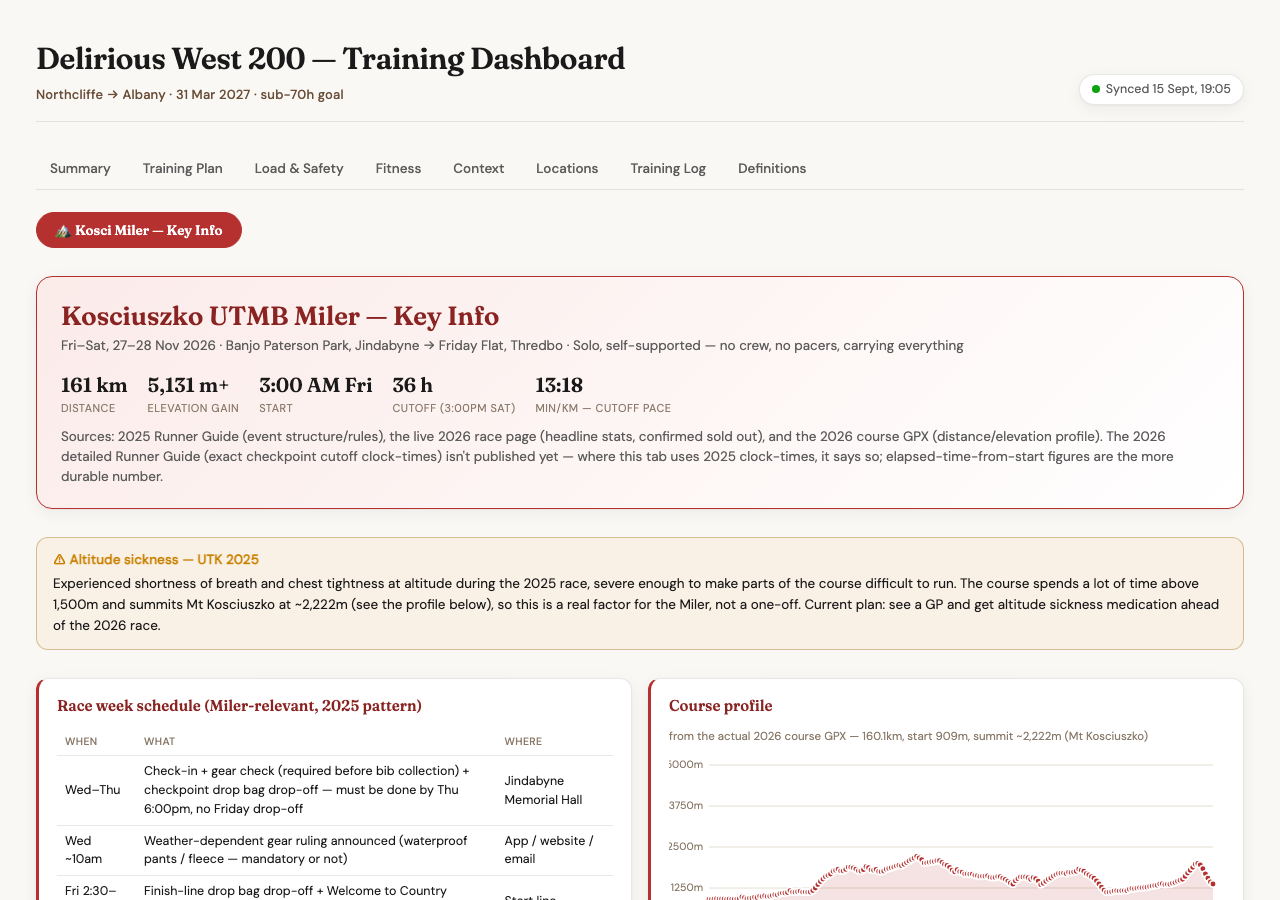
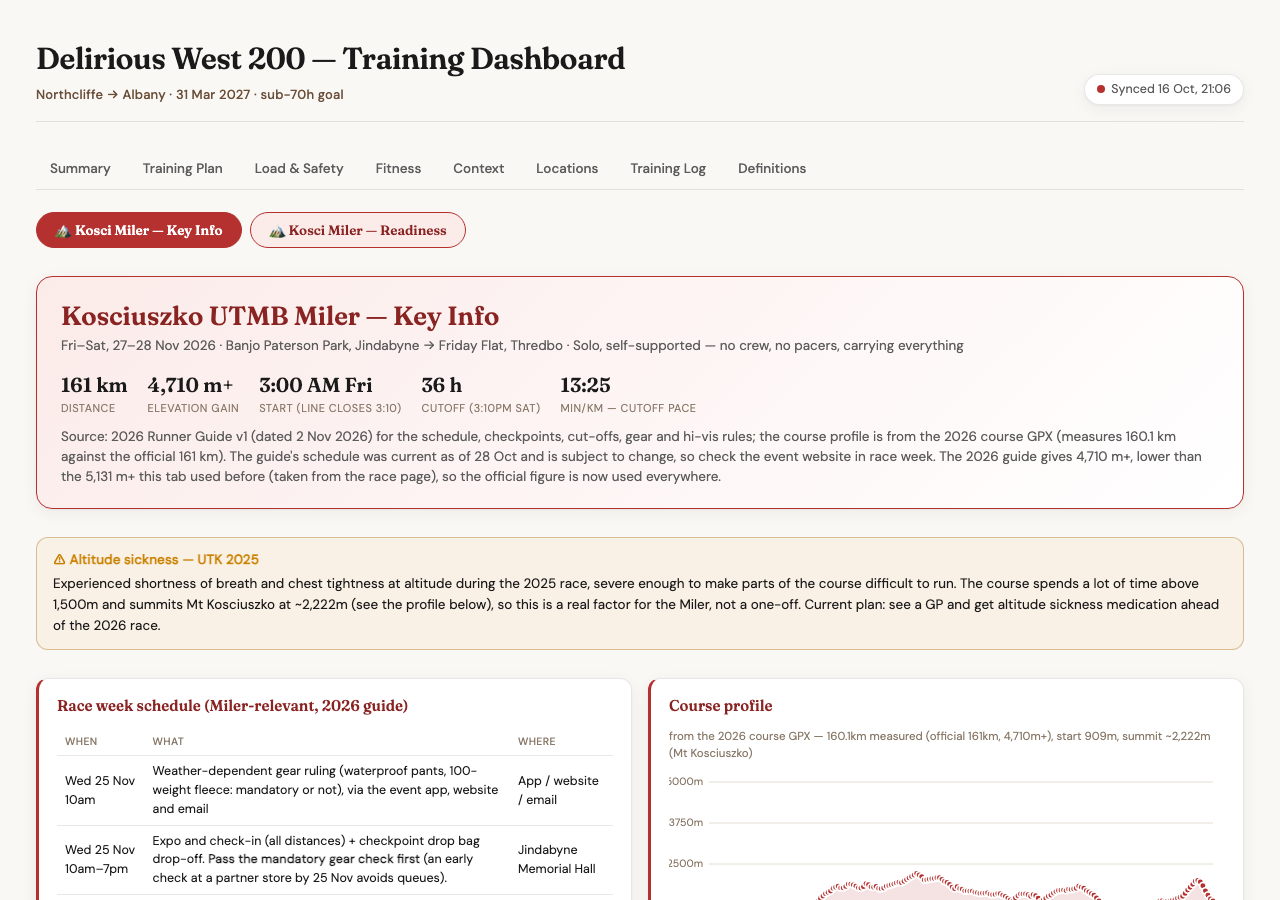
Update Kosci Key Info tab to the 2026 Runner Guide
Elevation 4,710 m+, 3:10pm Sat cutoff, 2026 schedule and checkpoint table,
supplies matrix, new mandatory gear and hi-vis rules. Config elevation and
open items updated; screenshot refreshed.

diff --git a/src/templates/dashboard.html b/src/templates/dashboard.html
@@ -779,7 +779,7 @@ footer { text-align: center; font-size: 11.5px; color: var(--ink-muted); padding
         <div class="def-card">
           <div class="term">Elevation gain</div>
           <div class="meaning">Total meters climbed (ascent only, not descent) over a run or week.</div>
-          <div class="context">Shown as "m+" in race facts, e.g. "5,131 m+".</div>
+          <div class="context">Shown as "m+" in race facts, e.g. "4,710 m+".</div>
         </div>
         <div class="def-card">
           <div class="term">Wear threshold (shoes)</div>
@@ -822,12 +822,12 @@ footer { text-align: center; font-size: 11.5px; color: var(--ink-muted); padding
       </div>
       <div class="race-stats">
         <div class="race-stat"><div class="v">161 km</div><div class="l">Distance</div></div>
-        <div class="race-stat"><div class="v">5,131 m+</div><div class="l">Elevation gain</div></div>
-        <div class="race-stat"><div class="v">3:00 AM Fri</div><div class="l">Start</div></div>
-        <div class="race-stat"><div class="v">36 h</div><div class="l">Cutoff (3:00pm Sat)</div></div>
-        <div class="race-stat"><div class="v">13:18</div><div class="l">min/km — cutoff pace</div></div>
+        <div class="race-stat"><div class="v">4,710 m+</div><div class="l">Elevation gain</div></div>
+        <div class="race-stat"><div class="v">3:00 AM Fri</div><div class="l">Start (line closes 3:10)</div></div>
+        <div class="race-stat"><div class="v">36 h</div><div class="l">Cutoff (3:10pm Sat)</div></div>
+        <div class="race-stat"><div class="v">13:25</div><div class="l">min/km — cutoff pace</div></div>
       </div>
-      <div class="race-sub">Sources: 2025 Runner Guide (event structure/rules), the live 2026 race page (headline stats, confirmed sold out), and the 2026 course GPX (distance/elevation profile). The 2026 detailed Runner Guide (exact checkpoint cutoff clock-times) isn't published yet — where this tab uses 2025 clock-times, it says so; elapsed-time-from-start figures are the more durable number.</div>
+      <div class="race-sub">Source: 2026 Runner Guide v1 (dated 2 Nov 2026) for the schedule, checkpoints, cut-offs, gear and hi-vis rules; the course profile is from the 2026 course GPX (measures 160.1 km against the official 161 km). The guide's schedule was current as of 28 Oct and is subject to change, so check the event website in race week. The 2026 guide gives 4,710 m+, lower than the 5,131 m+ this tab used before (taken from the race page), so the official figure is now used everywhere.</div>
     </div>
 
     <div class="caution show">
@@ -838,25 +838,27 @@ footer { text-align: center; font-size: 11.5px; color: var(--ink-muted); padding
     <div class="grid">
 
       <div class="race-panel">
-        <h3>Race week schedule (Miler-relevant, 2025 pattern)</h3>
+        <h3>Race week schedule (Miler-relevant, 2026 guide)</h3>
         <table class="cp-table">
           <tr><th>When</th><th>What</th><th>Where</th></tr>
-          <tr><td>Wed–Thu</td><td>Check-in + gear check (required before bib collection) + checkpoint drop bag drop-off — must be done by Thu 6:00pm, no Friday drop-off</td><td>Jindabyne Memorial Hall</td></tr>
-          <tr><td>Wed ~10am</td><td>Weather-dependent gear ruling announced (waterproof pants / fleece — mandatory or not)</td><td>App / website / email</td></tr>
-          <tr><td>Fri 2:30–3:25am</td><td>Finish-line drop bag drop-off + Welcome to Country (2:50am)</td><td>Start line</td></tr>
-          <tr><td><strong>Fri 3:00am</strong></td><td><strong>Race start</strong> — mass start, self-seed by pace. Sunrise ~5:43am.</td><td>Banjo Paterson Park, Jindabyne</td></tr>
-          <tr><td>From Fri 7:30pm</td><td>Earliest finishers</td><td>Friday Flat, Thredbo</td></tr>
-          <tr><td>Sat 3:00pm</td><td>Presentations</td><td>Friday Flat, Thredbo</td></tr>
-          <tr><td><strong>Sat 3:00pm</strong></td><td><strong>Finish cutoff — 36h total</strong></td><td>Friday Flat, Thredbo</td></tr>
-          <tr><td>Sat 8am–5pm</td><td>Checkpoint drop bag collection (must collect or a family/crew member with your Authority-to-Collect card)</td><td>Friday Flat, Thredbo</td></tr>
-          <tr><td>Sun 10am</td><td>Final deadline — uncollected drop bags donated/disposed</td><td>Friday Flat, Thredbo</td></tr>
+          <tr><td>Wed 25 Nov 10am</td><td>Weather-dependent gear ruling (waterproof pants, 100-weight fleece: mandatory or not), via the event app, website and email</td><td>App / website / email</td></tr>
+          <tr><td>Wed 25 Nov 10am–7pm</td><td>Expo and check-in (all distances) + checkpoint drop bag drop-off. <strong>Pass the mandatory gear check first</strong> (an early check at a partner store by 25 Nov avoids queues).</td><td>Jindabyne Memorial Hall</td></tr>
+          <tr><td><strong>Thu 26 Nov 8am–6pm</strong></td><td>Check-in for Kosci100 / Miler / pacers (Thursday is recommended, quieter) + <strong>last chance for checkpoint drop bags</strong>. No check-in on race morning and no Friday drop-off. Bring photo ID and your check-in QR code.</td><td>Jindabyne Memorial Hall</td></tr>
+          <tr><td>Fri 27 Nov 2:00–3:00am</td><td>Finish-line drop bag drop-off; event information from 2:30am; Welcome to Country 2:50am. Be at the start at least 30 minutes early.</td><td>Banjo Paterson Park, Jindabyne</td></tr>
+          <tr><td><strong>Fri 27 Nov 3:00am</strong></td><td><strong>Race start.</strong> 3:00 mass start (gun time) for runners in podium contention; 3:01 everyone else funnels through and self-seeds (net time). The start line closes at 3:10am.</td><td>Banjo Paterson Park, Jindabyne</td></tr>
+          <tr><td>Fri 27 Nov from 4:30pm</td><td>Finish-line drop bag collection opens (event information 4–8pm)</td><td>Friday Flat, Thredbo</td></tr>
+          <tr><td>Fri 27 Nov ~8:48pm</td><td>First expected finisher (17h48)</td><td>Friday Flat, Thredbo</td></tr>
+          <tr><td>Sat 28 Nov 8am–4pm</td><td>Event information, merchandise, finish-line and checkpoint drop bag collection, award collection</td><td>Friday Flat, Thredbo</td></tr>
+          <tr><td>Sat 28 Nov 11:00am</td><td>Top-3 overall presentations</td><td>Friday Flat, Thredbo</td></tr>
+          <tr><td><strong>Sat 28 Nov 3:10pm</strong></td><td><strong>Finish cutoff, 36h total</strong> (the 3:10am start line close + 36h)</td><td>Friday Flat, Thredbo</td></tr>
+          <tr><td>Sat 28 Nov, by 4pm</td><td>Collect every drop bag (the guide quotes 4:00pm, 4:15pm and 5:00pm in different places, so use 4:00pm). Uncollected bags are donated. Support can collect with your Authority to Collect card.</td><td>Friday Flat, Thredbo</td></tr>
         </table>
-        <div class="context" style="font-size:12px;color:var(--ink-muted)">No National Parks Pass needed to drive to the Jindabyne start; checkpoints and the Thredbo finish are inside the National Park and do need one if driving.</div>
+        <div class="context" style="font-size:12px;color:var(--ink-muted)">Shuttle: Thredbo to Jindabyne buses (via Crackenback) run every 90 minutes from 5:00pm Friday until the race finishes on Saturday. Tickets must be booked on your participant dashboard before Fri 13 Nov. No National Parks Pass is needed for the Jindabyne start or check-in/expo; the checkpoints and the Thredbo finish are inside the National Park and need one if driving.</div>
       </div>
 
       <div class="race-panel">
         <h3>Course profile</h3>
-        <span class="hint">from the actual 2026 course GPX — 160.1km, start 909m, summit ~2,222m (Mt Kosciuszko)</span>
+        <span class="hint">from the 2026 course GPX — 160.1km measured (official 161km, 4,710m+), start 909m, summit ~2,222m (Mt Kosciuszko)</span>
         <div class="panel-body"><svg class="chart" id="chartKosciProfile"></svg></div>
         <div class="context" style="font-size:12.5px;line-height:1.5">Jindabyne (Lake Jindabyne edge) → Thredbo Valley Trail → climb to the alpine plateau → Perisher → Charlotte Pass → <strong>Mt Kosciuszko summit</strong> (mainland Australia's highest point) → Guthega → Smiggins Holes → back down into Thredbo Valley → a final lap over the Thredbo ski area → Friday Flat, Thredbo.</div>
       </div>
@@ -865,9 +867,9 @@ footer { text-align: center; font-size: 11.5px; color: var(--ink-muted); padding
 
     <div class="race-panel">
       <h3>Checkpoints, cutoffs &amp; drop bags</h3>
-      <span class="hint">Distances/cutoffs from the 2025 event (36h structure unchanged for 2026) · rows tinted where a drop bag is allowed — your main resupply option with no crew</span>
+      <span class="hint">2026 Runner Guide · cut-offs are clock times you must LEAVE the checkpoint before; they are set from the last starter at 3:10am, so Elapsed counts from 3:10am · rows tinted where a drop bag is allowed, your main resupply with no crew</span>
       <div class="panel-body"><table class="cp-table" id="cpTable"></table></div>
-      <div class="context" style="font-size:12px;color:var(--ink-muted)">"First arrival" is an elite-pace estimate from the guide, not a target. Ngarigo Campground has no crew/spectator access for anyone — not specific to running solo.</div>
+      <div class="context" style="font-size:12px;color:var(--ink-muted)">Ngarigo Campground has strictly no crew or spectator access for anyone, so do not drive there or park on Alpine Way. Trout Hatchery has no crew access either. Black Sallees can only be reached by the Kosciuszko Express Chairlift and a hike, has limited crew access, no drop bags and no cutoff. If the organisers judge you cannot make a cutoff or the 36h at your current pace, they can classify you as DNF and ask you to leave the course.</div>
     </div>
 
     <div class="grid">
@@ -875,22 +877,22 @@ footer { text-align: center; font-size: 11.5px; color: var(--ink-muted); padding
       <div class="race-panel">
         <h3>Checkpoint supplies — the pattern, not every cell</h3>
         <ul style="margin:0 0 0 18px;padding:0;font-size:13px;line-height:1.7">
-          <li>Water, electrolyte, most snacks (chips, pretzels, banana, orange, watermelon, bakery, bread), sunscreen/Vaseline and hygiene products: at <strong>every</strong> checkpoint.</li>
-          <li><strong>Gels are not guaranteed</strong> at every checkpoint (missing at Trout Hatchery, Charlotte Pass Lookout, Perisher Ski Tube, Village Green per 2025) — carry your own supply rather than planning around course gels.</li>
-          <li><strong>Hot food/drinks (soup, noodles, tea/coffee) only start from Guthega Base Camp (~88km) onward</strong> — nothing hot in roughly the first 90km/first ~19h.</li>
-          <li><strong>Eagles Nest is a Water Point, not a full aid station</strong> — fluids only, no drop bag, limited access (Thredbo chairlift only).</li>
-          <li>Hot meal + finisher gift specifically for Miler/100 runners in the Recovery Area at the finish.</li>
-          <li>This is a <strong>cup-less event</strong> — bring your own (two, if you want separate hot/cold).</li>
+          <li>Water, NAAK drink mix, lollies, salt, sunscreen/Vaseline and hygiene products are at <strong>every</strong> checkpoint. Cola, waffles, chips, pretzels, banana, orange, watermelon, bakery items and bread are at nearly all of them (see the exceptions below).</li>
+          <li><strong>Gels are not guaranteed</strong>: not at Trout Hatchery, Bullocks Flat I, Bullocks Flat II or Black Sallees. Carry your own supply instead of planning around course gels.</li>
+          <li><strong>Hot food starts late.</strong> Tea, coffee and Milo first appear at Charlotte Pass Resort (56km, not at Charlotte Pass Lookout), and <strong>soup and noodles only from Guthega Base Camp (~90km)</strong>, so nothing hot to eat for roughly the first 90km / ~19h.</li>
+          <li><strong>Black Sallees is a limited checkpoint</strong> (155.5km, chairlift and hike access only): water, drink mix, cola, waffles, lollies, salt and hot drinks/soup, but no fruit, chips, pretzels, bakery, bread or gels. Trout Hatchery also has no cola, bakery, bread or hot food.</li>
+          <li>At the finish: a runner gift for Miler/100 finishers and a recovery zone with food, hydration and medical; tea, coffee and soup there come from Thredbo Services.</li>
+          <li>This is a <strong>cup-less event</strong>, so bring your own cup (two if you want separate hot and cold). NAAK flavours: drink mix lime and melon boost, waffles salted caramel, gels boost / chocolate / salted caramel (the last two limited).</li>
         </ul>
       </div>
 
       <div class="race-panel">
         <h3>Running solo &amp; self-supported</h3>
         <ul style="margin:0 0 0 18px;padding:0;font-size:13px;line-height:1.7">
-          <li><strong>Drop bags are your main resupply tool</strong> without a crew — allowed at 7 of 12 checkpoints (Bullocks Flat I &amp; II, Charlotte Pass Resort, Guthega Power Station I &amp; II, Perisher Ski Tube, Village Green) plus the Finish. Worth planning contents deliberately for each.</li>
-          <li>The 4 designated pacer pick-up points (Guthega Power Stations, Perisher Ski Tube, Bullocks Flat II, Village Green) don't apply to you — solo through the entire back half, including the remote overnight stretch from Guthega to Ngarigo.</li>
-          <li>No crew to notice if something's wrong — the emergency/lost procedures below matter more, not less. Know them before race day.</li>
-          <li>All mandatory gear must be self-carried at all times regardless — this is the same for every runner, crewed or not.</li>
+          <li><strong>Drop bags are your main resupply tool</strong> without a crew, allowed at 7 of 12 checkpoints (Bullocks Flat I &amp; II, Charlotte Pass Resort, Guthega Power Station I &amp; II, Perisher Ski Tube, Keller Plaza) plus the Finish. One soft bag per location, labelled with your name and race number, no valuables, no mandatory gear, nothing glass. Drop them at check-in on Wed or Thu.</li>
+          <li><strong>Your plan is solo, but the 2026 guide allows more.</strong> Up to three free pacers, one at a time, handed over at a pick-up point (Guthega Power Station I &amp; II, Perisher Ski Tube, Bullocks Flat II, Keller Plaza). Pacers register online by 26 Nov, collect a bib at check-in, carry their own mandatory gear, and cannot carry anything for you. Crew is allowed at most checkpoints (not Trout Hatchery or Ngarigo), one person in a reserved area, and if crew meets you at a checkpoint you should not use a drop bag there.</li>
+          <li>Without crew or a pacer nobody notices if something is wrong, so the emergency and withdrawal procedures below matter more. Know them before race day.</li>
+          <li>All mandatory gear must be carried at all times regardless, and Miler and Kosci100 runners must pass a gear check before they can collect a bib.</li>
         </ul>
       </div>
 
@@ -898,28 +900,28 @@ footer { text-align: center; font-size: 11.5px; color: var(--ink-muted); padding
 
     <div class="race-panel">
       <h3>Mandatory gear</h3>
-      <span class="hint">Random gear checks on course — a missing item means a time penalty served on the spot, or DQ for severe breaches</span>
+      <span class="hint">2026 Miler list · random gear checks on course: a missing item means a time penalty served on the spot, or DQ for severe breaches · no gear, no start</span>
       <div class="gear-grid">
         <div class="gear-item">Long sleeve thermal top (polypro/wool)</div>
         <div class="gear-item">Waterproof, breathable jacket</div>
-        <div class="gear-item">Beanie, balaclava, or head sock</div>
+        <div class="gear-item">Beanie, balaclava or head sock (Buff)</div>
         <div class="gear-item">Mobile phone</div>
         <div class="gear-item">Whistle</div>
-        <div class="gear-item">Emergency space blanket / light bivvy</div>
+        <div class="gear-item">Emergency survival bag: light bivvy sack or equivalent, <strong>not</strong> an emergency blanket</div>
         <div class="gear-item">Compression bandage</div>
         <div class="gear-item">Water capacity: 2L (bottles/bladder)</div>
         <div class="gear-item">2x food bars / portions</div>
         <div class="gear-item">Ziplock bag for personal rubbish</div>
         <div class="gear-item">Headlamp + small backup light</div>
-        <div class="gear-item">Compass</div>
-        <div class="gear-item">Lightweight dry sack</div>
+        <div class="gear-item">Gloves with reinforced/padded palms (mountain bike or tradesman gloves)</div>
+        <div class="gear-item">Lightweight dry sack or zip-lock bags</div>
         <div class="gear-item">High-visibility safety vest</div>
         <div class="gear-item">Long leg thermal pants (polypro/wool)</div>
         <div class="gear-item">Full-fingered lightweight thermal gloves</div>
-        <div class="gear-item weather">Long leg waterproof pants — weather-dependent, ruling ~10am Wed race week</div>
-        <div class="gear-item weather">100-weight fleece top — weather-dependent, ruling ~10am Wed race week</div>
+        <div class="gear-item weather">Long leg waterproof pants — weather-dependent, ruling 10am Wed 25 Nov</div>
+        <div class="gear-item weather">100-weight (minimum) synthetic fleece top — weather-dependent, ruling 10am Wed 25 Nov</div>
       </div>
-      <div class="context" style="font-size:12.5px;margin-top:4px"><strong>Race number and A5 emergency card are provided in your race pack, not self-sourced.</strong> Recommended (not mandatory): fuller first aid kit, leather rigging gloves (for the metal grated walkways), spare socks, cap, collapsible cup, body glide, spare headlamp batteries, extra packable warm layers. Don't rely on buying gear at the expo — have it all before race week.</div>
+      <div class="context" style="font-size:12.5px;margin-top:4px"><strong>Provided in your race pack:</strong> race number, A5 emergency instruction card and the backpack timing tag (attach it to the back of your pack with the cable tie). <strong>Changes from 2025:</strong> padded-palm gloves are now mandatory (they were only recommended), the survival bag must be a bivvy or equivalent rather than a blanket, and the compass is no longer on the list. Recommended (not mandatory): fuller first aid kit, spare socks, sunscreen, cap or sun hat, collapsible cup, body glide, spare headlamp batteries, extra warm layers (packable insulated jacket, warm leggings, thicker thermal tops). Don't rely on buying gear at the expo, have it all before race week.</div>
     </div>
 
     <div class="grid">
@@ -927,13 +929,14 @@ footer { text-align: center; font-size: 11.5px; color: var(--ink-muted); padding
       <div class="race-panel">
         <h3>Safety &amp; emergency — quick reference</h3>
         <ul style="margin:0 0 0 18px;padding:0;font-size:13px;line-height:1.7">
-          <li><strong>Event Safety &amp; Medical Team: 0418 902 842</strong> — call for any emergency, first aid, rescue, or if lost.</li>
+          <li><strong>Event Safety &amp; Medical Team: 0418 902 842</strong> (from the 2025 guide; the 2026 guide says the number is printed on the A5 emergency card in your race pack, so check it there) — call for any emergency, first aid, rescue, or if lost.</li>
           <li><strong>Emergency Services: 000</strong> — if the Safety Team is unreachable.</li>
           <li><strong>Event Control Centre (withdrawal from anywhere other than a checkpoint): 0447 224 132.</strong></li>
           <li>Mobile coverage is patchy — in a dead zone, follow the course or head to higher ground; don't leave the track. Text may succeed where a call fails.</li>
           <li><strong>If lost:</strong> use the Avenza app + course map (download before race day), stop and think before backtracking, try phones from different providers, move toward higher ground for reception. If truly stuck: whistle 3 blasts repeated, shout "HELP" at intervals, lay bright gear out in the open.</li>
           <li><strong>Lightning:</strong> get to an enclosed building/vehicle; avoid peaks, ridges, tall trees and metal; if caught in the open, crouch with feet together, away from others.</li>
-          <li><strong>Withdrawing:</strong> must be done at a checkpoint (sign the withdrawal form) unless medically evacuated — call the Event Control Centre immediately if you withdraw anywhere else, so they don't launch an unnecessary search.</li>
+          <li><strong>Withdrawing:</strong> must be done at a checkpoint (tell the staff and sign the withdrawal form) unless medically evacuated, and getting back to Thredbo or Jindabyne can take 1 to 2+ hours. If you withdraw anywhere else, call the Event Control Centre (0447 224 132, also on the back of your bib) immediately so no search is launched.</li>
+          <li><strong>Insurance:</strong> you pay for any ambulance, hospital or specialist costs, so hold private health cover with ambulance included.</li>
         </ul>
       </div>
 
@@ -942,7 +945,9 @@ footer { text-align: center; font-size: 11.5px; color: var(--ink-muted); padding
         <ul style="margin:0 0 0 18px;padding:0;font-size:13px;line-height:1.7">
           <li>Alpine and highly changeable — from below 0°C to 25°C+, with rain, wind, snow or hail all possible within hours. Night minimum near 0°C even when Jindabyne feels mild.</li>
           <li><strong>Metal grated walkways</strong> on course — slow down or walk; easy to catch a toe, a fall here can be serious.</li>
-          <li><strong>Hi-vis vest mandatory</strong> on Kosciuszko Road between Smiggins Hole and Perisher after 7pm, or whenever a marshal instructs.</li>
+          <li><strong>Hi-vis vest on:</strong> from the start to Trout Hatchery; from 5:30pm leaving Guthega Base Camp until you have left Perisher Ski Tube and crossed Kosciuszko Road; from 7:40pm from the Friday Flat carpark to the finish; any time on a bitumen or dirt road after 7:40pm; and whenever staff or marshals ask.</li>
+          <li><strong>Leave no trace:</strong> carry rubbish until a bin; littering or leaving toilet waste on course is a time penalty. Use the toilets at the start, finish and every checkpoint; otherwise go 15m off the track, away from water, and bury it 15cm deep.</li>
+          <li><strong>Training on course:</strong> aerial feral-animal control closes sections of Kosciuszko National Park Mon 9 to Fri 27 Nov (weekdays only, 5:45am–8:15pm, not weekends or race day). Check the NPWS alerts page before a course run.</li>
           <li>Remote sections mean medical response can take <strong>2+ hours</strong> — the mandatory gear list is the bare minimum for that reality, not a formality.</li>
           <li>Marked with pink flagging tape (≥every 500m), reflective strips, red arrows/blue crosses at junctions, and distance signs every 5km. Personal GPS devices typically read 3–5% off the official distance.</li>
           <li>Say no to NSAIDs (ibuprofen, Voltaren, Nurofen, naproxen) during the race — real risk combined with dehydration.</li>
@@ -1903,7 +1908,7 @@ function renderRaceCards() {
       <div class="race-meta">Fri 27 Nov 2026 · 3:00am · Jindabyne · primary build race</div>
       <div class="progress-track"><div class="fill" style="width:${kosciPct}%"></div></div>
       <div class="race-meta">${kosciPct}% of build time elapsed</div>
-      <div class="fact-row"><span class="k">Distance</span><span class="v">161 km · 5,131 m+</span></div>
+      <div class="fact-row"><span class="k">Distance</span><span class="v">161 km · 4,710 m+</span></div>
       <div class="fact-row"><span class="k">Cutoff</span><span class="v">36 h</span></div>
       <div class="fact-row"><span class="k">Weeks to go</span><span class="v">${kosciWeeks}</span></div>
       <div class="fact-row"><span class="k">Last full week</span><span class="v">${lastFull ? lastFull.km + " km" : "–"}</span></div>
@@ -2839,27 +2844,29 @@ function renderKosciProfile() {
 // start time — the 2026 detailed guide isn't out yet). elapsed = time since
 // the 3:00am start, the more durable number if 2026's exact clock times shift.
 const KOSCI_CHECKPOINTS = [
-  { n: "Trout Hatchery", km: 12.4, arrival: "3:54 AM", cutoff: "5:20 AM Fri", elapsed: "2h20m", bag: false },
-  { n: "Bullocks Flat I", km: 31.2, arrival: "5:43 AM", cutoff: "9:30 AM Fri", elapsed: "6h30m", bag: true },
-  { n: "Charlotte Pass Resort", km: 55.0, arrival: "8:18 AM", cutoff: "3:00 PM Fri", elapsed: "12h00m", bag: true },
-  { n: "Charlotte Pass Lookout", km: 78.6, arrival: "10:33 AM", cutoff: "8:00 PM Fri", elapsed: "17h00m", bag: false },
-  { n: "Guthega Base Camp", km: 88.3, arrival: "11:30 AM", cutoff: "10:00 PM Fri", elapsed: "19h00m", bag: false },
-  { n: "Guthega Power Station I", km: 96.2, arrival: "12:12 PM", cutoff: "11:45 PM Fri", elapsed: "20h45m", bag: true },
-  { n: "Guthega Power Station II", km: 105.6, arrival: "1:05 PM", cutoff: "2:05 AM Sat", elapsed: "23h05m", bag: true },
-  { n: "Perisher Ski Tube", km: 115.3, arrival: "1:57 PM", cutoff: "4:15 AM Sat", elapsed: "25h15m", bag: true },
-  { n: "Bullocks Flat II", km: 127.6, arrival: "3:10 PM", cutoff: "6:45 AM Sat", elapsed: "27h45m", bag: true },
-  { n: "Ngarigo Campground", km: 135.1, arrival: "3:57 PM", cutoff: "8:35 AM Sat", elapsed: "29h35m", bag: false },
-  { n: "Village Green", km: 146.3, arrival: "5:02 PM", cutoff: "11:10 AM Sat", elapsed: "32h10m", bag: true },
-  { n: "Eagles Nest (Water Point)", km: 156.3, arrival: "6:56 PM", cutoff: "–", elapsed: "–", bag: false },
-  { n: "FINISH — Friday Flat, Thredbo", km: 160.1, arrival: "7:39 PM", cutoff: "3:00 PM Sat", elapsed: "36h00m", bag: true },
+  // 2026 Runner Guide v1. elapsed = hours from the 3:10am last-starter time the cut-offs are set from.
+  { n: "Trout Hatchery", km: 12.4, cutoff: "5:25 AM Fri", elapsed: "2h15m", crew: false, bag: false, pacer: false },
+  { n: "Bullocks Flat I", km: 31.6, cutoff: "9:35 AM Fri", elapsed: "6h25m", crew: true, bag: true, pacer: false },
+  { n: "Charlotte Pass Resort", km: 56.2, cutoff: "3:05 PM Fri", elapsed: "11h55m", crew: true, bag: true, pacer: false },
+  { n: "Charlotte Pass Lookout", km: 79.9, cutoff: "8:05 PM Fri", elapsed: "16h55m", crew: true, bag: false, pacer: false },
+  { n: "Guthega Base Camp", km: 89.6, cutoff: "10:05 PM Fri", elapsed: "18h55m", crew: true, bag: false, pacer: false },
+  { n: "Guthega Power Station I", km: 97.5, cutoff: "11:50 PM Fri", elapsed: "20h40m", crew: true, bag: true, pacer: true },
+  { n: "Guthega Power Station II", km: 107, cutoff: "2:10 AM Sat", elapsed: "23h00m", crew: true, bag: true, pacer: true },
+  { n: "Perisher Ski Tube", km: 117, cutoff: "4:20 AM Sat", elapsed: "25h10m", crew: true, bag: true, pacer: true },
+  { n: "Bullocks Flat II", km: 129.9, cutoff: "6:50 AM Sat", elapsed: "27h40m", crew: true, bag: true, pacer: true },
+  { n: "Ngarigo Campground", km: 137.9, cutoff: "8:40 AM Sat", elapsed: "29h30m", crew: false, bag: false, pacer: false },
+  { n: "Keller Plaza", km: 148.9, cutoff: "11:15 AM Sat", elapsed: "32h05m", crew: true, bag: true, pacer: true },
+  { n: "Black Sallees (chairlift + hike)", km: 155.5, cutoff: "–", elapsed: "–", crew: "limited", bag: false, pacer: false },
+  { n: "FINISH — Friday Flat, Thredbo", km: 161, cutoff: "3:10 PM Sat", elapsed: "36h00m", crew: true, bag: true, pacer: false },
 ];
 
 function renderCheckpointTable() {
-  const html = ["<tr><th>Checkpoint</th><th>Cumul. KM</th><th>Leg KM</th><th>Est. 1st arrival</th><th>Cutoff (2025)</th><th>Elapsed</th><th>Drop bag</th></tr>"];
+  const yn = (v) => (v === "limited" ? "Limited" : v ? "Yes" : "No");
+  const html = ["<tr><th>Checkpoint</th><th>Cumul. KM</th><th>Leg KM</th><th>Cutoff (2026)</th><th>Elapsed</th><th>Crew</th><th>Drop bag</th><th>Pacer</th></tr>"];
   let prevKm = 0;
   for (const c of KOSCI_CHECKPOINTS) {
     const leg = Math.round((c.km - prevKm) * 10) / 10;
-    html.push(`<tr class="${c.bag ? "dropbag" : ""}"><td>${c.n}</td><td>${c.km}</td><td>${leg}</td><td>${c.arrival}</td><td>${c.cutoff}</td><td>${c.elapsed}</td><td class="${c.bag ? "yes" : "no"}">${c.bag ? "Yes" : "No"}</td></tr>`);
+    html.push(`<tr class="${c.bag ? "dropbag" : ""}"><td>${c.n}</td><td>${c.km}</td><td>${leg}</td><td>${c.cutoff}</td><td>${c.elapsed}</td><td>${yn(c.crew)}</td><td class="${c.bag ? "yes" : "no"}">${c.bag ? "Yes" : "No"}</td><td>${c.pacer ? "Yes" : "–"}</td></tr>`);
     prevKm = c.km;
   }
   $("#cpTable").innerHTML = html.join("");

diff --git a/src/config.py b/src/config.py
@@ -53,12 +53,13 @@ def ensure_strava_credentials():
 # Race dates
 KOSCI_DATE = date(2026, 11, 27)
 KOSCI_DISTANCE_KM = 161
-KOSCI_ELEVATION_M = 5131
+KOSCI_ELEVATION_M = 4710  # official 2026 Runner Guide figure (the race page said 5,131 earlier)
 KOSCI_REPORT_WEEKS_OUT = 6  # the formal readiness report is due this many weeks before race day
 # Unresolved items shown on the Kosci Readiness tab until closed (edit as they resolve).
 KOSCI_OPEN_ITEMS = [
     "Altitude: see a GP and get altitude sickness medication sorted (UTK 2025: breathlessness and chest tightness above 1,500 m)",
-    "2026 Runner Guide not published yet: checkpoint cutoff clock-times on the Key Info tab are from 2025",
+    "Mandatory gear check: Miler runners must pass it before collecting a bib (early check at a partner store by 25 Nov, or at Jindabyne check-in on Wed 25 or Thu 26 Nov). Check you have padded-palm gloves and a bivvy bag, both now mandatory",
+    "Book the Thredbo to Jindabyne finish shuttle on the participant dashboard before Fri 13 Nov if you need it",
 ]
 DELIRIOUS_WEST_DATE = date(2027, 3, 31)
 DELIRIOUS_WEST_DISTANCE_KM = 322  # ~200 mi — course distance, not GPS-measured
